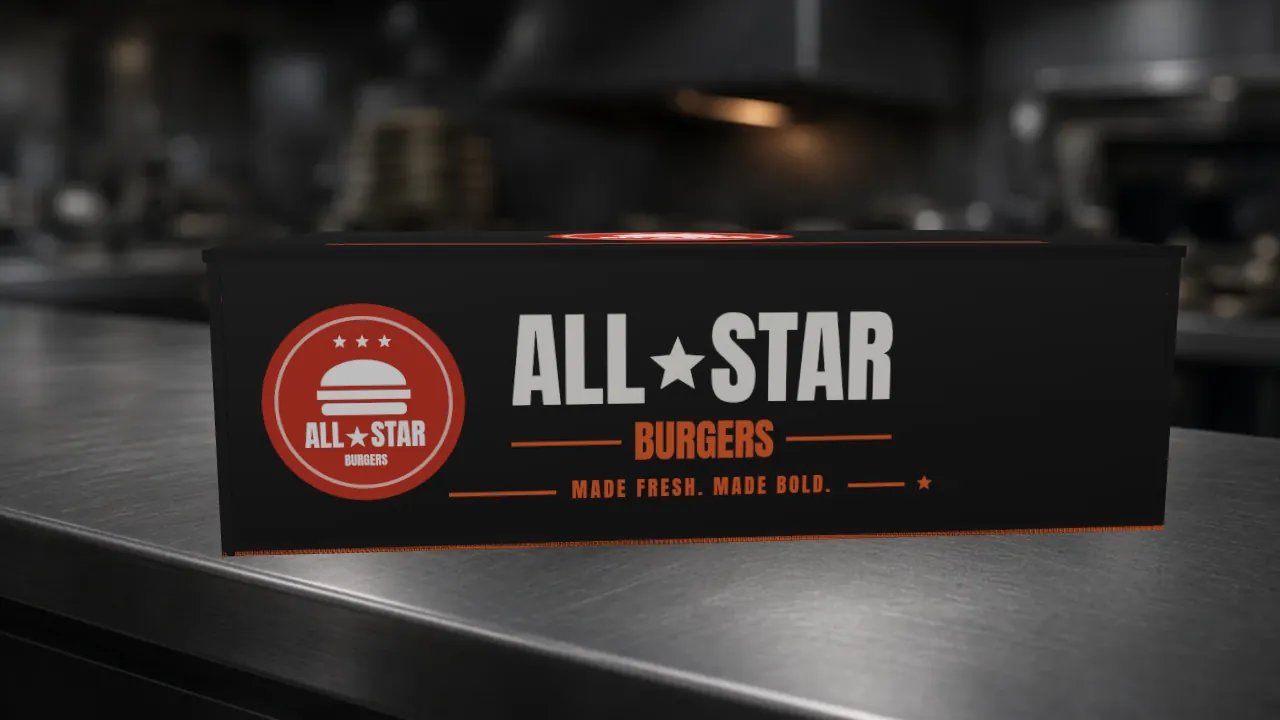
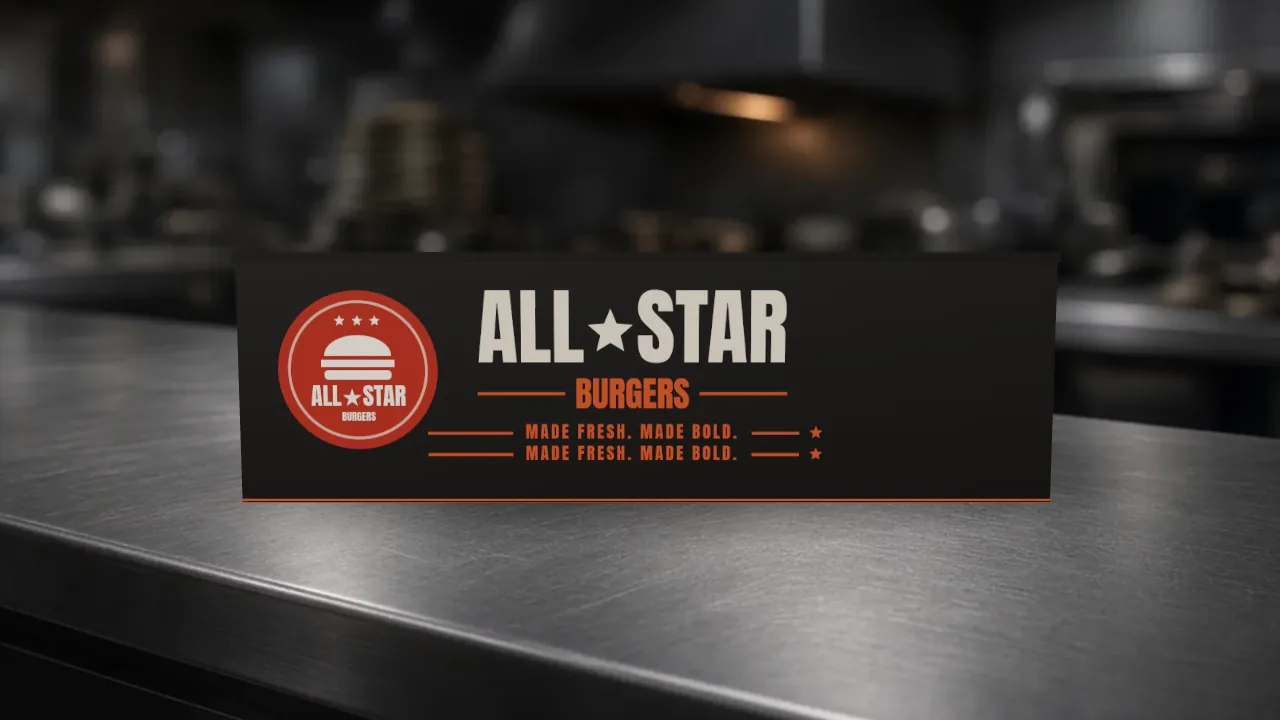
v8: reduced-motion/no-WebGL stills re-rendered from the v8 3D scene (?v=8), still crops follow the new framing; remove unused 2.5D webps (f_*, l_*)

diff --git a/index.html b/index.html
@@ -71,7 +71,7 @@
     </ol>
 
     <section class="txt t-hero dark" id="s-hero" aria-labelledby="h-hero">
-      <figure class="still"><img src="assets/img/rm_hero.webp" alt="All Star smash burger on white deli paper on a dark table" loading="lazy" width="1280" height="720"></figure>
+      <figure class="still"><img src="assets/img/rm_hero.webp?v=8" alt="All Star smash burger on white deli paper on a dark table" loading="lazy" width="1280" height="720"></figure>
       <div class="copy">
         <p class="kicker"><span class="dash"></span>All Star Burgers</p>
         <h2 id="h-hero" class="big scr" data-text="Built like|an All-Star.">Built like<br>an All-Star.</h2>
@@ -85,7 +85,7 @@
     </section>
 
     <section class="txt t-smash dark" id="s-smash" aria-labelledby="h-smash">
-      <figure class="still"><img src="assets/img/rm_smash.webp" alt="Exploded smash burger: bun, sauce, onions, two cheesy patties and bottom bun floating apart" loading="lazy" width="1280" height="720"></figure>
+      <figure class="still"><img src="assets/img/rm_smash.webp?v=8" alt="Exploded smash burger: bun, sauce, onions, two cheesy patties and bottom bun floating apart" loading="lazy" width="1280" height="720"></figure>
       <div class="copy">
         <p class="num"><span>01</span><span class="dash"></span></p>
         <h2 id="h-smash" class="big scr" data-text="Smashed|to order">Smashed<br>to order</h2>
@@ -94,7 +94,7 @@
     </section>
 
     <section class="txt t-stack light" id="s-stack" aria-labelledby="h-stack">
-      <figure class="still"><img src="assets/img/rm_stack.webp" alt="The burger layers separated on a light background" loading="lazy" width="1280" height="720"></figure>
+      <figure class="still"><img src="assets/img/rm_stack.webp?v=8" alt="The burger layers separated on a light background" loading="lazy" width="1280" height="720"></figure>
       <div class="copy">
         <p class="num"><span>02</span><span class="dash"></span></p>
         <h2 id="h-stack" class="big scr" data-text="The stack">The stack</h2>
@@ -106,7 +106,7 @@
     </section>
 
     <section class="txt t-combo dark" id="s-combo" aria-labelledby="h-combo">
-      <figure class="still"><img src="assets/img/rm_combo.webp" alt="Open black All Star Burgers box with a burger, fries, dip and an Oreo shake on a steel counter" loading="lazy" width="1280" height="720"></figure>
+      <figure class="still"><img src="assets/img/rm_combo.webp?v=8" alt="Open black All Star Burgers box with a burger, fries, dip and an Oreo shake on a steel counter" loading="lazy" width="1280" height="720"></figure>
       <div class="copy">
         <p class="num"><span>03</span><span class="dash"></span></p>
         <h2 id="h-combo" class="big scr" data-text="Game day {combo}">Game day <span class="acc">combo</span></h2>
@@ -115,7 +115,7 @@
     </section>
 
     <section class="txt t-shakes dark" id="s-shakes" aria-labelledby="h-shakes">
-      <figure class="still"><img src="assets/img/rm_closed.webp" alt="The closed All Star Burgers box, front view: Made fresh. Made bold." loading="lazy" width="1280" height="720"></figure>
+      <figure class="still"><img src="assets/img/rm_closed.webp?v=8" alt="The closed All Star Burgers box, front view: Made fresh. Made bold." loading="lazy" width="1280" height="720"></figure>
       <div class="copy">
         <p class="num"><span>04</span><span class="dash"></span></p>
         <h2 id="h-shakes" class="big scr" data-text="Overtime shakes">Overtime shakes</h2>

diff --git a/style.css b/style.css
@@ -176,8 +176,8 @@ main:focus{outline:none}
   .anim .scrim-l{background:linear-gradient(180deg,rgba(8,8,8,.94) 0,rgba(8,8,8,.85) 34%,rgba(8,8,8,0) 56%)}
   .anim .scrim-b{opacity:1}
 }
-.t-combo .still img{object-position:66% 50%}
-.t-shakes .still img{object-position:34% 50%}
+.t-combo .still img{object-position:36% 50%}
+.t-shakes .still img{object-position:50% 50%}
 @media (min-aspect-ratio:1/1){.anim .scrim-l{opacity:1}}
 
 /* ---------- v2: video-matched layout ---------- */
